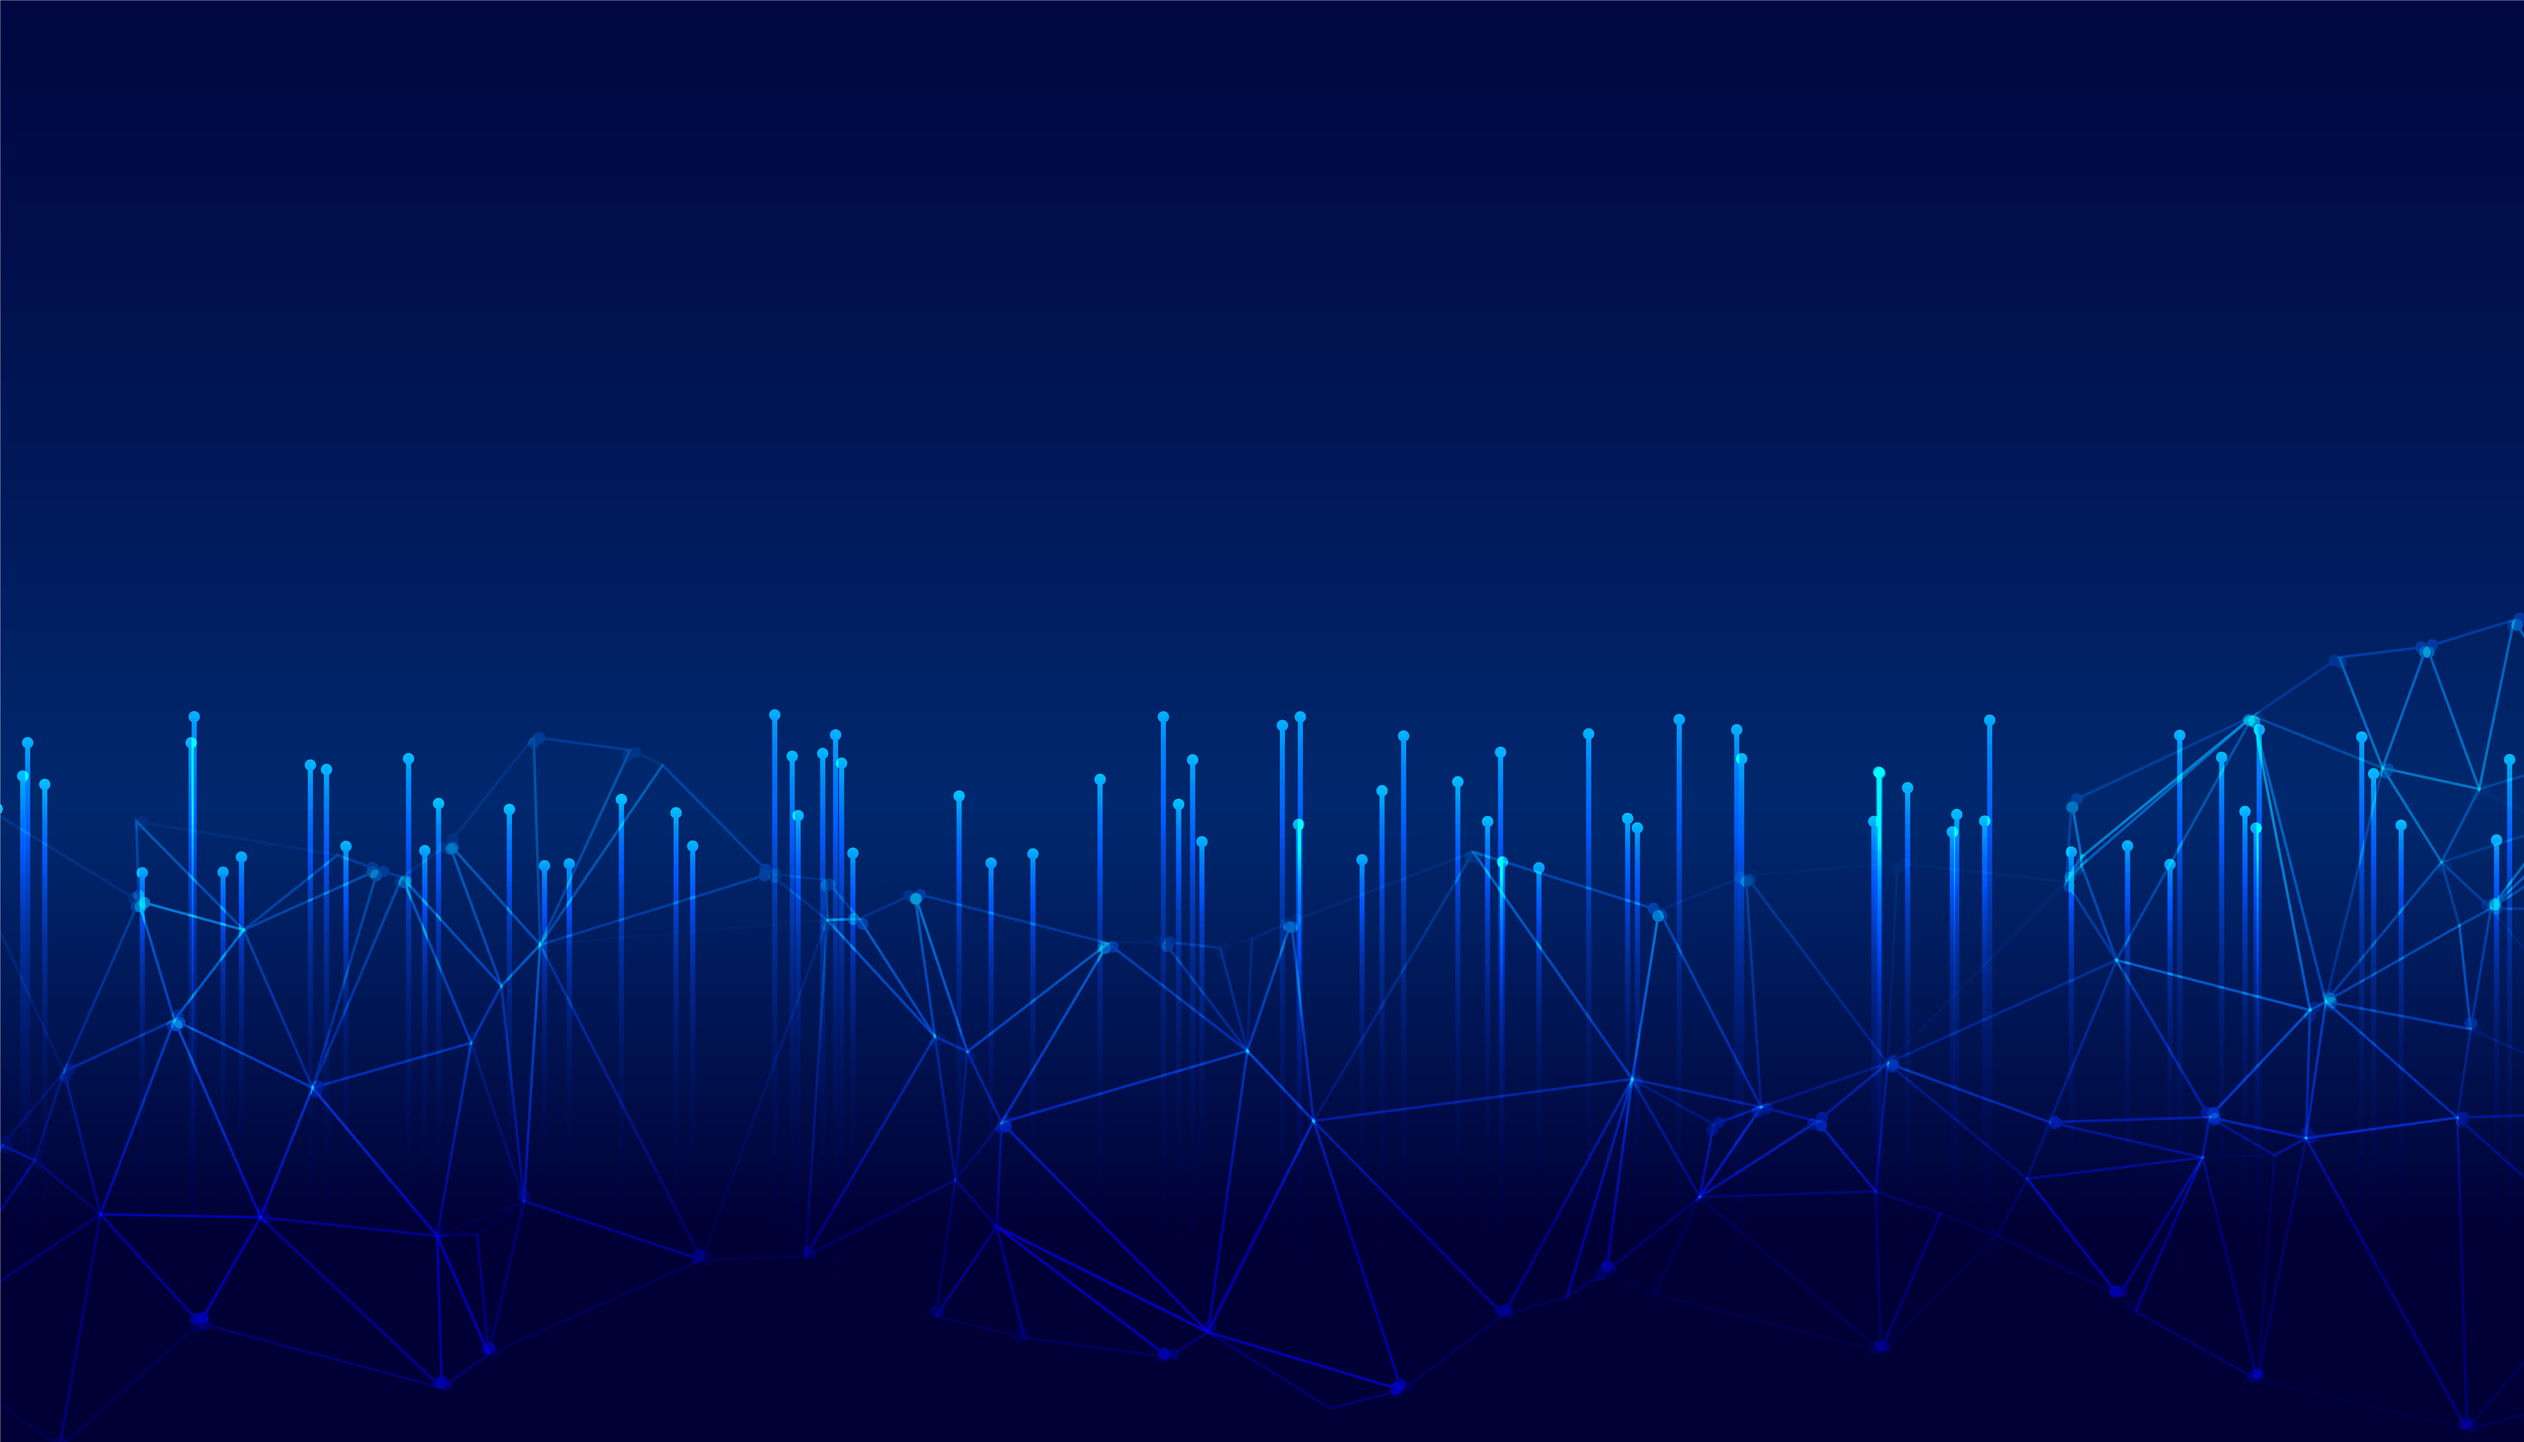
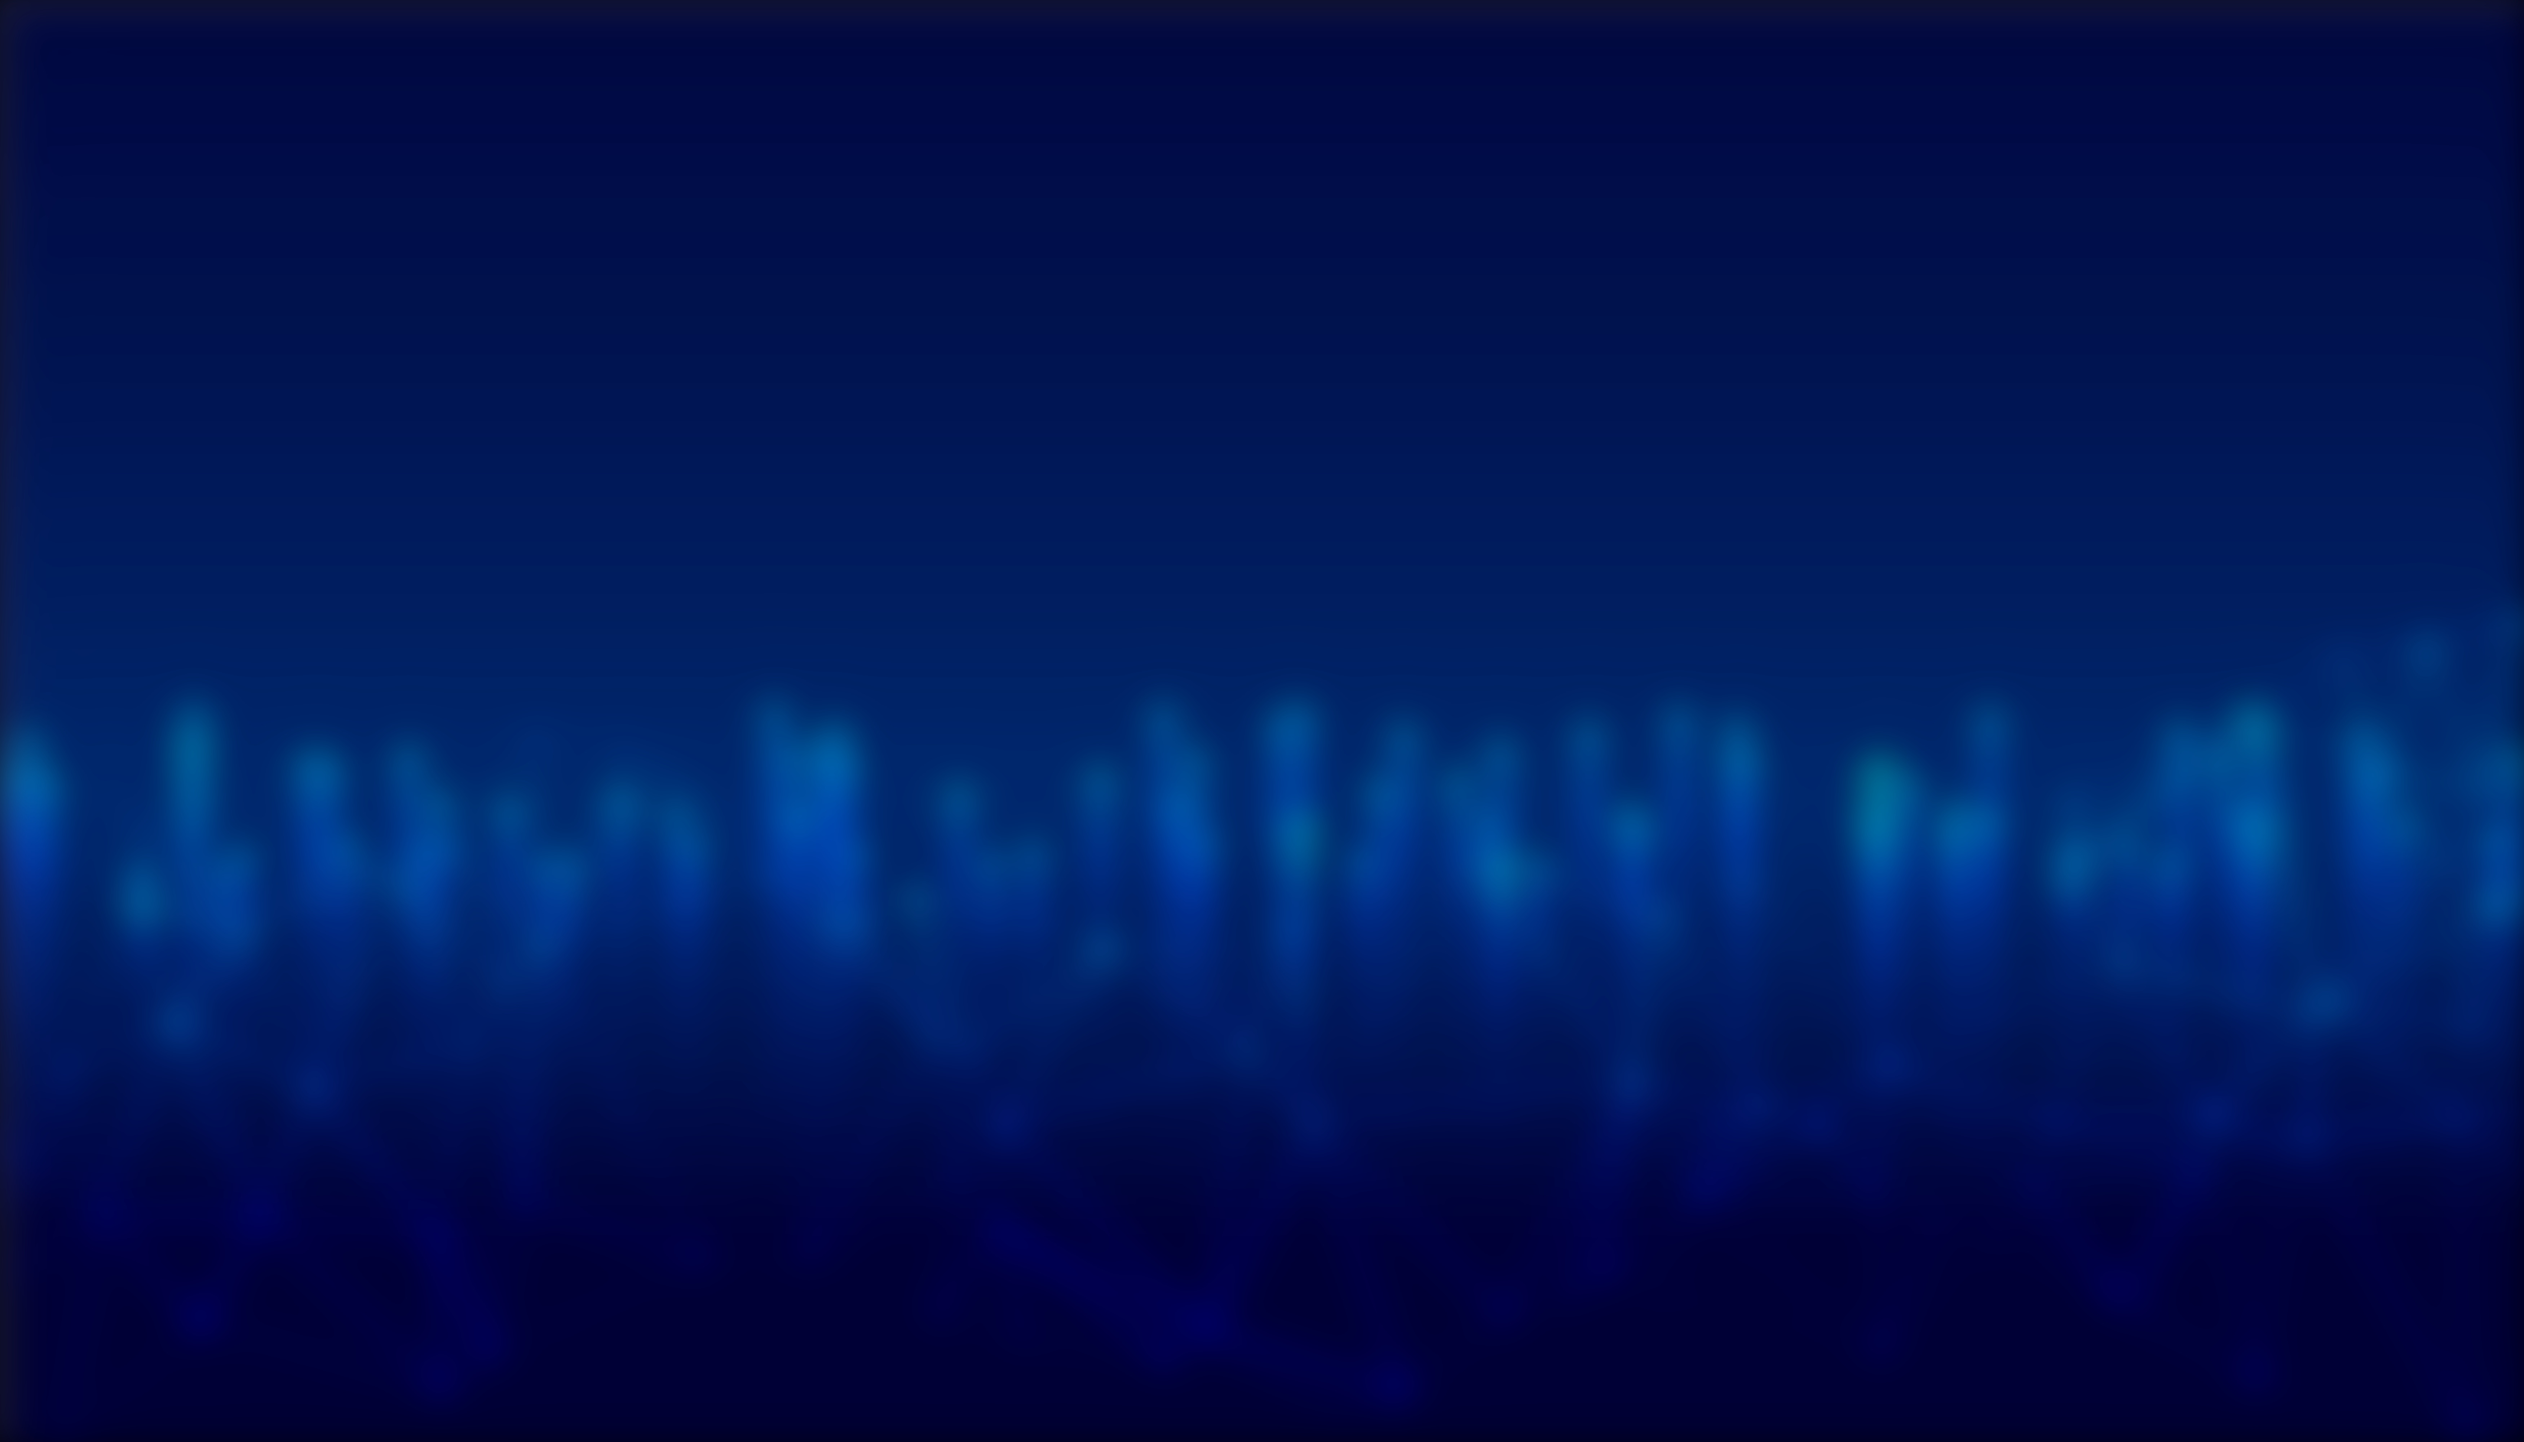
Update frontpage, add contact menu
blur bg 2

diff --git a/content/de/_index.html b/content/de/_index.html
@@ -4,7 +4,7 @@ linkTitle = "sensible-ki"
 
 +++
 
-{{< blocks/cover title="SENSIBLE-KI" image_anchor="top" height="full" color="dark" >}}
+{{< blocks/cover title="SENSIBLE-KI" image_anchor="top" height="min" color="dark" >}}
 <div class="mx-auto">
 	<a class="btn btn-lg btn-primary mr-3 mb-4" href="https://www.aisec.fraunhofer.de/de/presse-und-veranstaltungen/presse/pressemitteilungen/2021/SensibleKI.html">
 		Mehr erfahren <i class="fas fa-arrow-alt-circle-right ml-2"></i>
@@ -12,19 +12,14 @@ linkTitle = "sensible-ki"
 	<a class="btn btn-lg btn-secondary mr-3 mb-4" href="https://github.com/sensible-ki">
 		Download <i class="fab fa-github ml-2 "></i>
 	</a>
-	<p class="lead mt-5">Sichere und vertrauenswürdige mobile KI.</p>
+	<p class="lead mt-5">Das Projekt SENSIBLE-KI erforscht Lösungen, um Systeme der Künstlichen Intelligenz (KI) in mobilen Anwendungen und eingebetteten Systemen sicher und vertrauenswürdig zu gestalten. </p>
 	{{< blocks/link-down color="info" >}}
 </div>
 {{< /blocks/cover >}}
 
-
-{{% blocks/lead color="primary" %}}
-Das Projekt SENSIBLE-KI erforscht Lösungen, um Systeme der Künstlichen Intelligenz (KI) in mobilen Anwendungen und eingebetteten Systemen sicher und vertrauenswürdig zu gestalten. 
-{{% /blocks/lead %}}
-
 {{% blocks/lead color="white" %}}
 Partner aus Wirtschaft, angewandter Forschung und Forschung arbeiten in dem vom Bundesministerium für Wirtschaft und Energie BMWi geförderten Projekt daran, die Integrität und Authentizität von KI-Systemen zu waren. Dabei werden unter anderem Methoden entwickelt, die die Vertraulichkeit der Systeme selbst sicherstellt, gleichzeitig aber auch die Privatheit der Daten schützt und eine sichere Übertragung auf mobile Endgeräte ermöglicht. 
-<div style="display:flex;flex-direction: row; justify-content:space-around;align-items: stretch;width:80%;margin:auto;padding-top:30px">
+<div style="display:flex;flex-direction: row; justify-content:space-around;align-items: stretch;width:80%;margin:auto;padding-top:30px;flex-wrap: wrap;">
 
 <div>
 	<img src="/img/logo-aisec.jpg" style="max-width:170px" />
@@ -44,9 +39,6 @@ Partner aus Wirtschaft, angewandter Forschung und Forschung arbeiten in dem vom 
 
 {{% /blocks/lead %}}
 
-{{< blocks/lead color="dark" >}}
+{{< blocks/lead color="primary" >}}
 Dabei greift das Projekt nicht nur auf das Expertenwissen aus der Cybersicherheitsforschung und der Industrie zurück, sondern setzt gleichzeitig auf eine breite Entwickler-Community aus verschiedenen Branchen und Domänen. So wird sichergestellt, dass die entwickelten Ansätze und Methoden auch den Schutz liefern, die in der Praxis benötigt werden. 
-
-
-
 {{< /blocks/lead >}}

diff --git a/content/en/_index.html b/content/en/_index.html
@@ -4,7 +4,7 @@ linkTitle = "sensible-ki"
 
 +++
 
-{{< blocks/cover title="SENSIBLE-KI" image_anchor="top" height="full" color="dark" >}}
+{{< blocks/cover title="SENSIBLE-KI" image_anchor="top" height="min" color="dark" >}}
 <div class="mx-auto">
 	<a class="btn btn-lg btn-primary mr-3 mb-4" href="https://www.aisec.fraunhofer.de/de/presse-und-veranstaltungen/presse/pressemitteilungen/2021/SensibleKI.html">
 		Learn More <i class="fas fa-arrow-alt-circle-right ml-2"></i>
@@ -12,20 +12,14 @@ linkTitle = "sensible-ki"
 	<a class="btn btn-lg btn-secondary mr-3 mb-4" href="https://github.com/sensible-ki">
 		Download <i class="fab fa-github ml-2 "></i>
 	</a>
-	<p class="lead mt-5">Secure and trustworthy mobile AI.</p>
+	<p class="lead mt-5">The project SENSIBLE-KI explores solutions to make artificial intelligence (AI) systems in mobile applications and embedded systems secure and trustworthy.</p>
 	{{< blocks/link-down color="info" >}}
 </div>
 {{< /blocks/cover >}}
 
-
-{{% blocks/lead color="primary" %}}
-The project SENSIBLE-KI explores solutions to make artificial intelligence (AI) systems in mobile applications and embedded systems secure and trustworthy. 
-{{% /blocks/lead %}}
-
 {{% blocks/lead color="white" %}}
 Partners from industry, applied research and scientific research are working in the project, which is funded by the German Federal Ministry for Economic Affairs and Energy BMWi, to ensure the integrity and authenticity of AI systems. For example, methods are being developed that ensure the confidentiality of the systems themselves, while at the same time protecting the privacy of the data and enabling secure transmission to mobile devices. 
-<div style="display:flex;flex-direction: row; justify-content:space-around;align-items: stretch;width:80%;margin:auto;padding-top:30px">
-
+<div style="display:flex;flex-direction: row; justify-content:space-around;align-items: stretch;width:80%;margin:auto;padding-top:30px;flex-wrap: wrap;">
 <div>
 	<img src="/img/logo-aisec.jpg" style="max-width:170px" />
 </div>

diff --git a/layouts/partials/navbar.html b/layouts/partials/navbar.html
@@ -1,0 +1,37 @@
+{{ $cover := .HasShortcode "blocks/cover" }}
+<nav class="js-navbar-scroll navbar navbar-expand navbar-dark {{ if $cover}} td-navbar-cover {{ end }}flex-column flex-md-row td-navbar">
+        <a class="navbar-brand" href="{{ .Site.Home.RelPermalink }}">
+		<span class="navbar-logo">{{ if .Site.Params.ui.navbar_logo }}{{ with resources.Get "icons/logo.svg" }}{{ ( . | minify).Content | safeHTML }}{{ end }}{{ end }}</span><span class="text-uppercase font-weight-bold">{{ .Site.Title }}</span>
+	</a>
+	<div class="td-navbar-nav-scroll ml-md-auto" id="main_navbar">
+		<ul class="navbar-nav mt-2 mt-lg-0">
+			{{ $p := . }}
+			{{ range .Site.Menus.main }}
+			<li class="nav-item mr-4 mb-2 mb-lg-0">
+				{{ $active := or ($p.IsMenuCurrent "main" .) ($p.HasMenuCurrent "main" .) }}
+				{{ with .Page }}
+				{{ $active = or $active ( $.IsDescendant .)  }}
+				{{ end }}
+				{{ $url := urls.Parse .URL }}
+				{{ $baseurl := urls.Parse $.Site.Params.Baseurl }}
+				{{ if eq (hasPrefix .URL "mailto:") true}}
+				<a {{ if .Identifier }}id="{{ .Identifier }}"{{ end }} class="nav-link{{if $active }} active{{end}}" href="{{ .URL }}"><span>{{ .Name }}</span></a>
+				{{ else }}
+				<a {{ if .Identifier }}id="{{ .Identifier }}"{{ end }} class="nav-link{{if $active }} active{{end}}" href="{{ with .Page }}{{ .RelPermalink }}{{ else }}{{ .URL | relLangURL }}{{ end }}" {{ if ne $url.Host $baseurl.Host }}target="_blank" {{ end }}><span{{if $active }} class="active"{{end}}>{{ .Name }}</span></a>
+				{{ end }}
+			</li>
+			{{ end }}
+			{{ if  .Site.Params.versions }}
+			<li class="nav-item dropdown d-none d-lg-block">
+				{{ partial "navbar-version-selector.html" . }}
+			</li>
+			{{ end }}
+			{{ if  (gt (len .Site.Home.Translations) 0) }}
+			<li class="nav-item dropdown d-none d-lg-block">
+				{{ partial "navbar-lang-selector.html" . }}
+			</li>
+			{{ end }}
+		</ul>
+	</div>
+	<div class="navbar-nav d-none d-lg-block">{{ partial "search-input.html" . }}</div>
+</nav>

diff --git a/assets/scss/_variables_project.scss b/assets/scss/_variables_project.scss
@@ -7,3 +7,4 @@ Add styles or override variables from the theme here.
 $primary: #15346d;
 $secondary: #A23B72; 
 $info: #1b65bc;
+$dark: #15346d;
